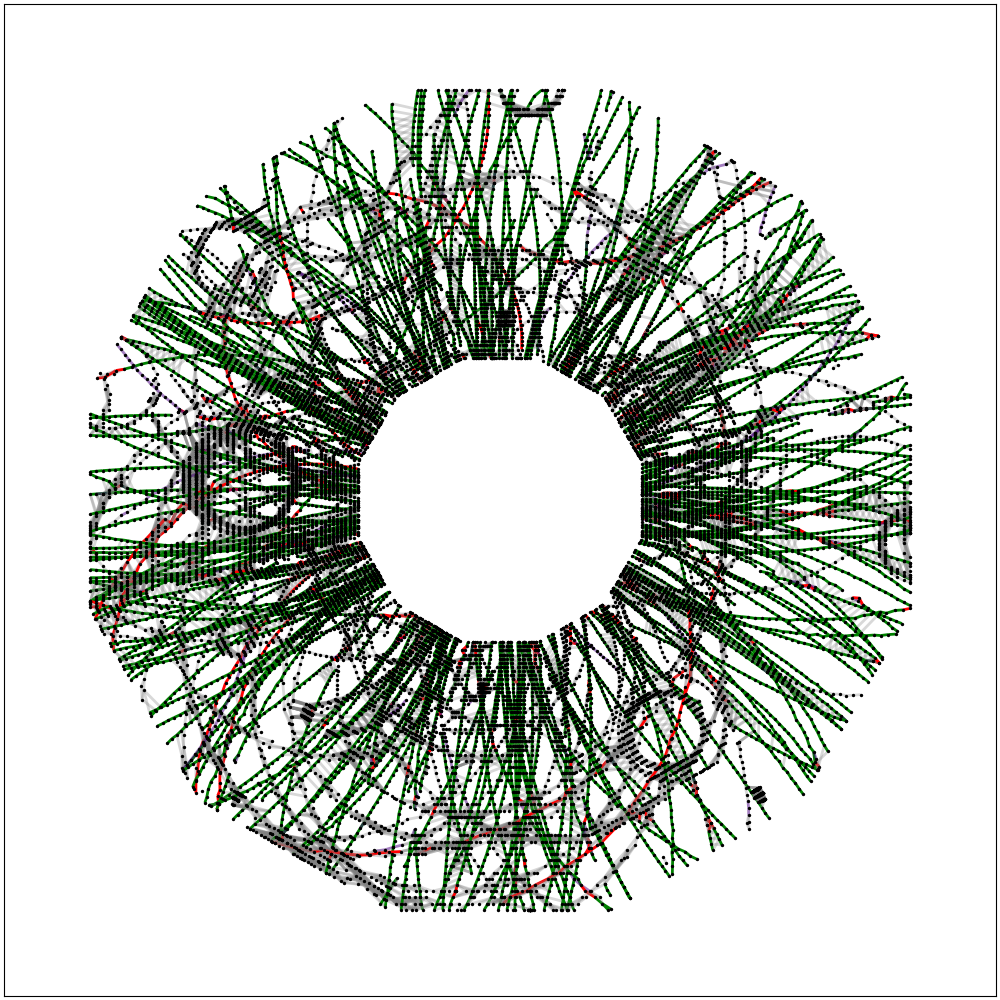
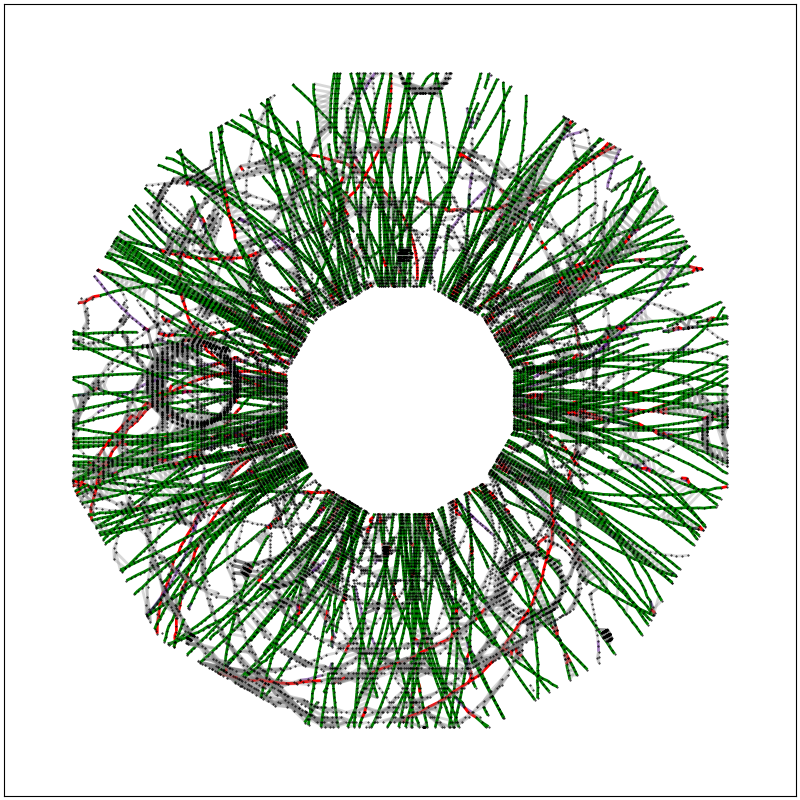
figures

diff --git a/Evaluate_graph.py b/Evaluate_graph.py
@@ -79,9 +79,9 @@ def plot_graph(G, pred):
                 edge_colors[iedge] = 'red'
     pos = get_pos(G) 
     plt.close('all')
-    fig, ax = plt.subplots(figsize=(10, 10), constrained_layout=True)
+    fig, ax = plt.subplots(figsize=(8, 8), constrained_layout=True)
     widths = [2.0 if color == 'red' or 'green' else 1.5 for color in edge_colors]
-    nx.draw_networkx_nodes(G, pos, node_color='black', node_size=2, alpha=1.0, ax=ax)
+    nx.draw_networkx_nodes(G, pos, node_color='black', node_size=0.2, alpha=1.0, ax=ax)
     nx.draw_networkx_edges(G, pos, edge_color=edge_colors, width=widths, alpha=edge_alpha, ax=ax, arrows=False) 
     
     plt.show()
@@ -97,10 +97,10 @@ def plot3D_networkx(G, pred, animate=False, only_true=False):
 
     plt.close('all')
 
-    fig = plt.figure(figsize=(13, 13))
+    fig = plt.figure(figsize=(8, 8))
     ax = fig.add_subplot(111, projection='3d')
 
-    ax.scatter(x, y, z, s=2, c='black')
+    ax.scatter(x, y, z, s=0.2, c='black')
 
     for iedge,edge in enumerate(G.edges(data=True)):
         p1 = G.nodes[edge[0]]['pos'][:3]
@@ -130,10 +130,10 @@ def plot3D_networkx(G, pred, animate=False, only_true=False):
                     [p1[2], p2[2]], color=col, linewidth=linewidth, alpha=alpha)
 
     ax.tick_params(axis='both', which='major', labelsize=14)
-    ax.set_xlabel('X', fontsize=16)
-    ax.set_ylabel('Y', fontsize=16)
-    ax.set_zlabel('Z', fontsize=16)
-    ax.set_title('', fontsize=16)
+    ax.set_xlabel('X', fontsize=14)
+    ax.set_ylabel('Y', fontsize=14)
+    ax.set_zlabel('Z', fontsize=14)
+    ax.set_title('', fontsize=14)
 
     plt.show()
     #plt.savefig("graph3D.png")
